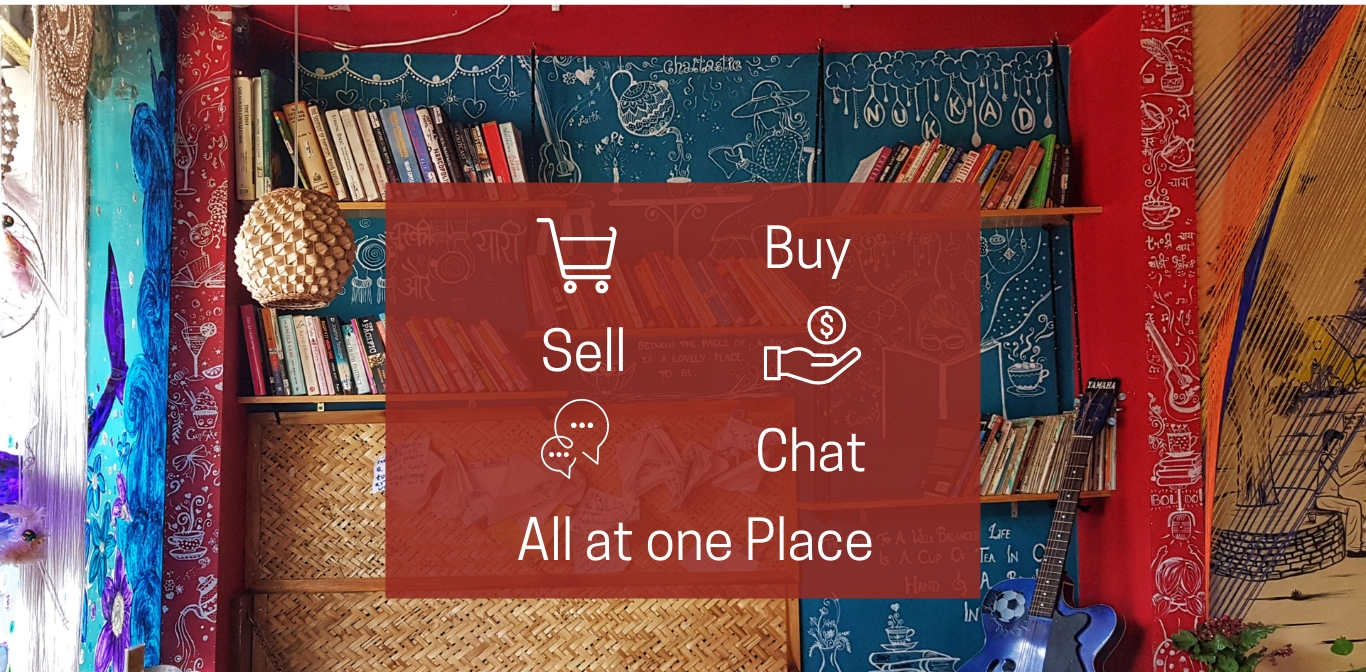
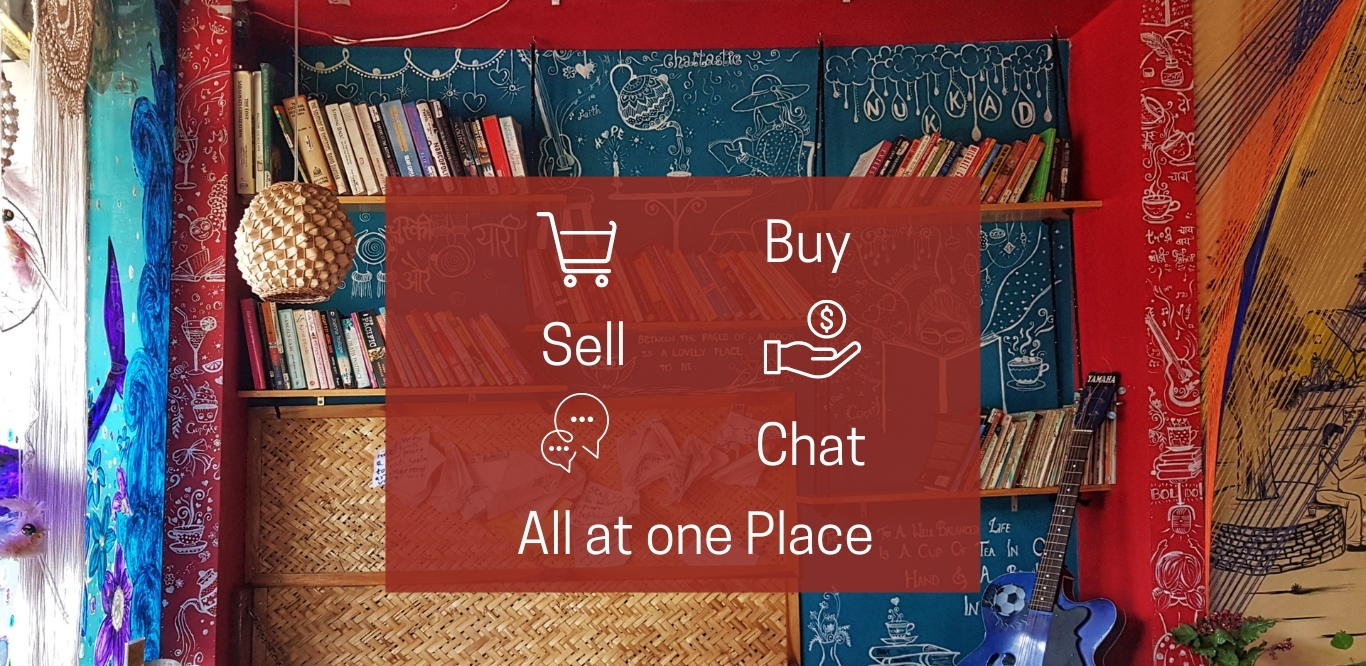
fixed ui

diff --git a/src/pages/home/Home.jsx b/src/pages/home/Home.jsx
@@ -13,10 +13,12 @@ import { Carousel } from "antd";
 // import hero1 from "../../utilities/hero1.webp";
 // import hero2 from "../../utilities/hero2.jpg";
 import hero3 from "../../utilities/hero3-utilised.jpg";
+import hero3mobile from "../../utilities/hero3 copy.jpg";
 import { Link } from "react-router-dom";
 import AuthContext from "../../utilities/auth-context";
+import { useState } from "react";
 const contentStyle = {
-  height: "88vh",
+  height: "89vh",
   color: "#fff",
   lineHeight: "160px",
   textAlign: "center",
@@ -30,7 +32,16 @@ export default function Home() {
   const feautures = ["College Filter", "Chat Room", "Free to use"];
   const feauturesIcon = [filtericon, chaticon, freeicon];
   const heroes = [hero3];
+
+  const [mobileview, setmobileview] = useState(window.innerWidth < 900);
   const ctx = useContext(AuthContext);
+  window.onresize = () => {
+    if (mobileview && window.innerWidth > 900) {
+      setmobileview(false);
+    } else if (!mobileview && window.innerWidth < 900) {
+      setmobileview(true);
+    }
+  };
   return (
     <div className="home">
       <div className="home_s0">
@@ -42,7 +53,7 @@ export default function Home() {
                   alt="hero"
                   style={contentStyle}
                   className="heroimage"
-                  src={hero}
+                  src={mobileview ? hero3mobile : hero3}
                 ></img>
               </div>
             ))}
@@ -71,7 +82,7 @@ export default function Home() {
           in the college campus itself.
         </p>
       </div>
-      <div className="home_s3" data-aos="slide-up" data-aos-duration="500">
+      <div className="home_s3" data-aos="slide-right" data-aos-duration="500">
         <div className="s3-d1">
           <p className="s3-h1">Wanna buy a book?</p>
           <p className="s3-h2">Take a Look into our collection..</p>
@@ -88,7 +99,7 @@ export default function Home() {
         <div>
           <img
             className="s3_image"
-            data-aos="slide-up"
+            data-aos="slide-left"
             data-aos-duration="500"
             src={bookTree}
           ></img>

diff --git a/src/App.js b/src/App.js
@@ -31,7 +31,7 @@ AOS.init();
 
 function App() {
   const [isLoggedIn, setIsLoggedIn] = useState(
-    !!JSON.parse(localStorage.getItem("token"))
+    !!JSON?.parse(localStorage.getItem("token"))
   );
   const [notificationSound, togle] = useAudio(sound);
   const [rooms, setRooms] = useState([]);
@@ -45,8 +45,8 @@ function App() {
   const [notification, setNotification] = useState([]);
   const history = useHistory();
   const { request } = useHttpClient();
- // console.log(user);
-  
+  // console.log(user);
+
   const loginHandler = (userDetail, token, expiration) => {
     setIsLoggedIn(true);
     let expirationDate = expiration || new Date().getTime() + 1000 * 60 * 60;
@@ -152,23 +152,22 @@ function App() {
   socket.on("message_recieved", (sandhesa) => {
     if (
       window.location.pathname.startsWith("/chats/") &&
-      window.location.pathname!=='/chats/'
-      ) {
-        
-      }else{
+      window.location.pathname !== "/chats/"
+    ) {
+    } else {
       togle();
       //  console.log("not in chat");
-       setNotification([sandhesa, ...notification]);
+      setNotification([sandhesa, ...notification]);
     }
   });
   socket.on("notifications", (data) => {
     // console.log(data);
-    if (data&&data[0]&&data[0].notification.length !== 0) {
+    if (data && data[0] && data[0].notification.length !== 0) {
       setNotification(data[0].notification);
     }
   });
   socket.on("joining_req", (room) => {
-    socket.emit("join_room_id",user.id,room);
+    socket.emit("join_room_id", user.id, room);
   });
 
   let routes = (
@@ -260,7 +259,6 @@ function App() {
       <div className="App">
         <Navbar></Navbar>
         {routes}
-       
       </div>
     </AuthContext.Provider>
   );

diff --git a/src/pages/home/Home.css b/src/pages/home/Home.css
@@ -90,6 +90,7 @@ body{
     .home_s1{
             padding: 3% 7% 8%;
             justify-content: center;
+            align-items: center;
     }
     .s1_p{
         font-size: 20px;
@@ -101,9 +102,6 @@ body{
     .feautures img{
         height: 150px;
     }
-    .heroimage{
-        height: 50vh !important;
-    }
     .s1_logo{
         height: 60vw;
         padding: 15px;
@@ -113,11 +111,7 @@ body{
         align-items: center;
         justify-content: center;
     }
-    .s3-btn{
-        padding: 13px;
-        height: 50px !important;
-        width: 90% !important;
-    }
+  
     .s3-h1{
         font-size: 35px !important;
     }
@@ -126,6 +120,9 @@ body{
     }
     .s3_image{
         height: 60vw;
+    }
+    .head{
+        font-size: 1.5rem;
     }
 }
 .home_s3{
@@ -138,13 +135,13 @@ body{
 }
 .s3-h1{
     font-size: 55px;
-    font-weight: 300;
+    font-weight: 500;
     color: #FF4646;
     margin: 0;
 }
 .s3-h2{
     font-size: 35px;
-    font-weight: 600;
+    font-weight: 300;
     color: rgba(54, 53, 53, 0.813);
     margin: 0;
 }
@@ -155,6 +152,9 @@ body{
     align-items: baseline;
 }
 .s3-btn{
+    display: flex;
+    justify-content: center;
+    align-items: center;
     padding: 12px;
     text-align: center;
     cursor: pointer;
@@ -179,3 +179,4 @@ body{
 .s3_2{
     flex-wrap: wrap;
 }
+

diff --git a/src/components/FilterBar/Filterbar.css b/src/components/FilterBar/Filterbar.css
@@ -18,3 +18,20 @@
     font-size: 16px;
     border:1px solid grey;
 }
+@media screen and (max-width:500px) {
+    .filterbar{
+        flex-direction: column;
+        align-items: baseline;
+    }
+    .filters,.sort,.searchbar{
+        width: 100%;
+        display: flex;
+        flex-direction: row;
+        justify-content: space-between;
+        align-items: center;
+    }
+    .filters input,.filters select,.sort select,.searchbar input{
+        width: 100%;
+    }
+    
+}

diff --git a/public/index.html b/public/index.html
@@ -13,6 +13,7 @@
       name="description"
       content="Online platform to buy or sell second hand books"
     />
+    <meta name="keywords" content="the book bazaar, the book bajaar, book, sell book, buy book" />
    
     <link rel="apple-touch-icon" href="%PUBLIC_URL%/logo192.png" />
     <!--

diff --git a/src/components/Shelf/Shelf.css b/src/components/Shelf/Shelf.css
@@ -34,7 +34,8 @@
     justify-content: center;
     align-items: center;
     margin:20px;
-    box-shadow: 5px 10px 30px rgba(0, 0, 0, 0.482);
+    border:1px solid rgba(0, 0, 0, 0.307);
+    /* box-shadow: 5px 6px 2px rgba(0, 0, 0, 0.482); */
 }
 .book img{
     
